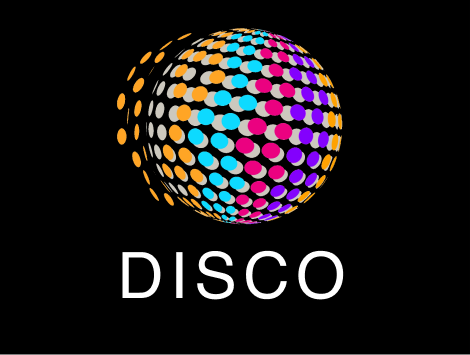
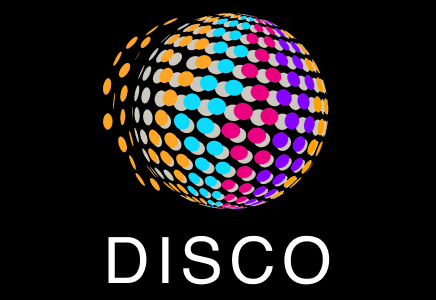
custom desktop component

Changed region(s): [[0.2385, 0.03, 0.7752, 0.96], [0.2385, 0.69, 0.3876, 0.96], [0.0, 0.99, 1.0, 1.0]]

diff --git a/src/components/Desktop.jsx b/src/components/Desktop.jsx
@@ -1,0 +1,156 @@
+import React from 'react';
+import propTypes from 'prop-types';
+import styled from 'styled-components';
+
+
+
+export const StyledCutout = styled.div`
+  position: relative;
+  box-sizing: border-box;
+  padding: 2px;
+  font-size: 1rem;
+  border-style: solid;
+  border-width: 2px;
+  border-left-color: ${({ theme }) => theme.borderDark};
+  border-top-color: ${({ theme }) => theme.borderDark};
+  border-right-color: ${({ theme }) => theme.borderLightest};
+  border-bottom-color: ${({ theme }) => theme.borderLightest};
+  line-height: 1.5;
+  &:before {
+    position: absolute;
+    left: 0;
+    top: 0;
+    content: '';
+    width: calc(100% - 4px);
+    height: calc(100% - 4px);
+    border-style: solid;
+    border-width: 2px;
+    border-left-color: ${({ theme }) => theme.borderDarkest};
+    border-top-color: ${({ theme }) => theme.borderDarkest};
+    border-right-color: ${({ theme }) => theme.borderLight};
+    border-bottom-color: ${({ theme }) => theme.borderLight};
+    pointer-events: none;
+  }
+`;
+
+const Wrapper = styled.div`
+  position: relative;
+  display: inline-block;
+  padding-bottom: 26px;
+`;
+
+const Inner = styled.div`
+  position: relative;
+`;
+
+const Monitor = styled.div`
+  position: relative;
+  z-index: 1;
+  box-sizing: border-box;
+  width: 125px;
+  height: 100px;
+  padding: 12px;
+  background: ${({ theme }) => theme.material};
+  border-top: 4px solid ${({ theme }) => theme.borderLightest};
+  border-left: 4px solid ${({ theme }) => theme.borderLightest};
+  border-bottom: 4px solid ${({ theme }) => theme.borderDark};
+  border-right: 4px solid ${({ theme }) => theme.borderDark};
+  outline: 1px dotted ${({ theme }) => theme.material};
+  outline-offset: -3px;
+  &:before {
+    content: '';
+    position: absolute;
+    left: 0;
+    top: 0;
+    width: 100%;
+    height: 100%;
+    outline: 1px dotted ${({ theme }) => theme.material};
+  }
+  box-shadow: 1px 1px 0 1px ${({ theme }) => theme.borderDarkest};
+  &:after {
+    content: '';
+    display: inline-block;
+    position: absolute;
+    bottom: 4px;
+    right: 12px;
+    width: 10px;
+    border-top: 2px solid #4d9046;
+    border-bottom: 2px solid #07ff00;
+  }
+`;
+
+const Background = styled(StyledCutout).attrs(() => ({
+    'data-testid': 'background'
+}))`
+  width: 100%;
+  height: 100%;
+`;
+
+const Stand = styled.div`
+  box-sizing: border-box;
+  position: absolute;
+  top: calc(100% + 2px);
+  left: 50%;
+  transform: translateX(-50%);
+  height: 10px;
+  width: 50%;
+  background: ${({ theme }) => theme.material};
+  border-left: 2px solid ${({ theme }) => theme.borderLightest};
+  border-bottom: 2px solid ${({ theme }) => theme.borderDarkest};
+  border-right: 2px solid ${({ theme }) => theme.borderDarkest};
+  box-shadow: inset 0px 0px 0px 2px ${({ theme }) => theme.borderDark};
+  &:before {
+    content: '';
+    position: absolute;
+    top: calc(100% + 2px);
+    left: 50%;
+    transform: translateX(-50%);
+    width: 80%;
+    height: 8px;
+    background: ${({ theme }) => theme.material};
+    border-left: 2px solid ${({ theme }) => theme.borderLightest};
+    border-right: 2px solid ${({ theme }) => theme.borderDarkest};
+    box-shadow: inset 0px 0px 0px 2px ${({ theme }) => theme.borderDark};
+  }
+  &:after {
+    content: '';
+    position: absolute;
+    top: calc(100% + 8px);
+    left: 50%;
+    transform: translateX(-50%);
+    width: 150%;
+    height: 4px;
+    background: ${({ theme }) => theme.material};
+    border: 2px solid ${({ theme }) => theme.borderDark};
+    border-bottom: none;
+    box-shadow: inset 1px 1px 0px 1px ${({ theme }) => theme.borderLightest},
+      1px 1px 0 1px ${({ theme }) => theme.borderDarkest};
+  }
+`;
+
+const Desktop = React.forwardRef(function Desktop(props, ref) {
+    const { backgroundStyles, children, ...otherProps } = props;
+
+    return (
+        <Wrapper ref={ref} {...otherProps}>
+            <Inner>
+                <Monitor>
+                    <Background style={backgroundStyles}>{children}</Background>
+                </Monitor>
+                <Stand />
+            </Inner>
+        </Wrapper>
+    );
+});
+
+Desktop.defaultProps = {
+    backgroundStyles: null
+};
+
+Desktop.propTypes = {
+    backgroundStyles: propTypes.object,
+    // eslint-disable-next-line react/require-default-props
+    children: propTypes.node
+};
+
+export default Desktop;

diff --git a/src/screens/Main.jsx b/src/screens/Main.jsx
@@ -2,7 +2,7 @@ import { useSelector, useDispatch } from 'react-redux'
 import { updateWindow } from '../redux/slices/interfaceSlice'
 
 
-import { Desktop } from 'react95';
+import Desktop  from '../components/Desktop';
 
 // Projects
 import { DiscoTab } from '../windows/projects/DiscoTab';
@@ -59,23 +59,23 @@ export default function Main() {
                 <div className='bts'>
                     {/* Project Icons */}
                     <>
-                        <div className='my-2' onClick={() => { dispatch(updateWindow('Dog Watch')) }} >
+                        <div className='mb-3' onClick={() => { dispatch(updateWindow('Dog Watch')) }} >
                             <Desktop>
                                 <img className='desktopLogo' src={dogWatchLogo} alt="dog watch" />
                             </Desktop>
                         </div>
 
-                        <div className='my-2' onClick={() => { dispatch(updateWindow('DISCO')) }} >
+                        <div className='my-3' onClick={() => { dispatch(updateWindow('DISCO')) }} >
                             <Desktop>
                                 <img className='desktopLogo' src={discoLogo} alt="dog watch" />
                             </Desktop>
                         </div>
-                        <div className='my-2' onClick={() => { dispatch(updateWindow('Augma')) }} >
+                        <div className='my-3' onClick={() => { dispatch(updateWindow('Augma')) }} >
                             <Desktop>
                                 <img className='desktopLogo' src={augmaLogo} alt="dog watch" />
                             </Desktop>
                         </div>
-                        <div className='my-2' onClick={() => { dispatch(updateWindow('WAV Bands')) }} >
+                        <div className='my-3' onClick={() => { dispatch(updateWindow('WAV Bands')) }} >
                             <Desktop>
                                 <img className='desktopLogo' src={wavbandsLogo} alt="dog watch" />
                             </Desktop>

diff --git a/src/styler.css b/src/styler.css
@@ -135,6 +135,6 @@ body {
 }
 
 .desktopLogo{
-  height: 112px;
-  width: 152px;
+  height: 55px;
+  width: 80px;
 }
